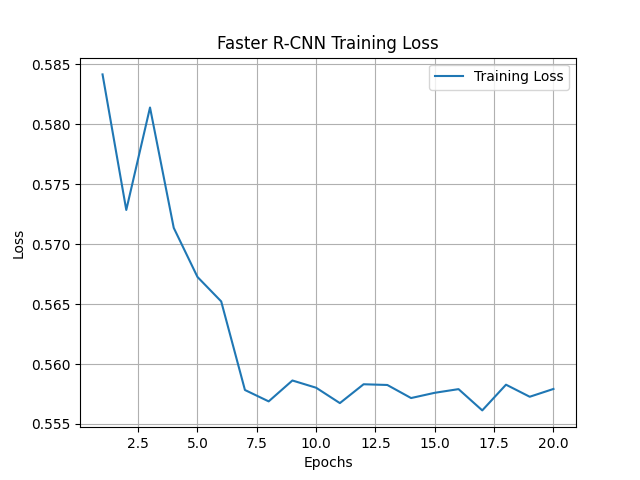
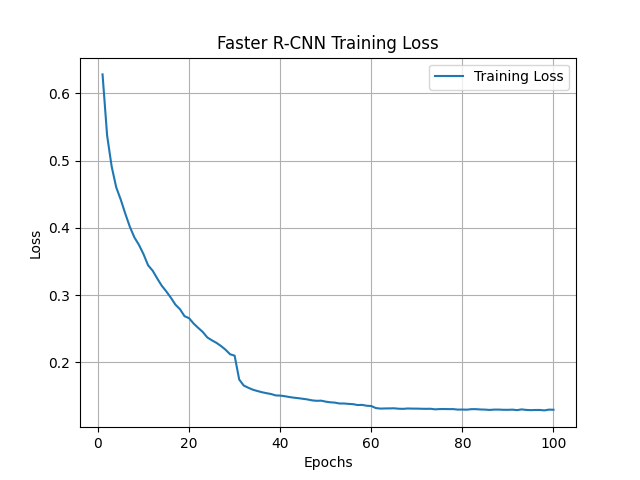
feat: Update R-CNN training hyperparameters and data augmentation, remove a duplicate script, and refresh the training loss plot.

diff --git a/CVDL/HW2/train_rcnn.py b/CVDL/HW2/train_rcnn.py
@@ -90,8 +90,8 @@ if __name__ == "__main__":
     # --- 參數設定 ---
     DATA_ROOT = "./data/1/VOCtrainval_06-Nov-2007/VOCdevkit/VOC2007"
     BATCH_SIZE = 4
-    NUM_EPOCHS = 200
-    LEARNING_RATE = 0.005
+    NUM_EPOCHS = 100
+    LEARNING_RATE = 1E-3
     
     device = torch.device('cuda') if torch.cuda.is_available() else torch.device('cpu')
     print(f"Using device: {device}")
@@ -99,6 +99,8 @@ if __name__ == "__main__":
     # --- 準備資料 ---
     data_transform = transforms.Compose([
         transforms.ToTensor(),
+        transforms.ColorJitter(brightness=0.2, contrast=0.2, saturation=0.2, hue=0.1),
+        transforms.RandomGrayscale(p=0.1),
     ])
     
     if os.path.exists(DATA_ROOT):
@@ -119,9 +121,10 @@ if __name__ == "__main__":
 
     # --- 設定 Optimizer 與 Scheduler ---
     params = [p for p in model.parameters() if p.requires_grad]
-    optimizer = optim.Adam(params, lr=LEARNING_RATE, weight_decay=0.0005)
+    optimizer = optim.SGD(params, lr=LEARNING_RATE, momentum=0.9, weight_decay=0.0005)
     
-    lr_scheduler = optim.lr_scheduler.StepLR(optimizer, step_size=3, gamma=0.1)
+    # StepLR step_size=30 (assuming 100 epochs, drop every 30)
+    lr_scheduler = optim.lr_scheduler.StepLR(optimizer, step_size=30, gamma=0.1)
 
     # --- 訓練迴圈 ---
     loss_history = []

diff --git a/CVDL/HW2/ben/main.py b/CVDL/HW2/ben/main.py
@@ -90,7 +90,6 @@ class MainWindow(QMainWindow):
         """1.1 Load Model And Show Model Structure [cite: 72, 73]"""
         model = get_faster_rcnn()
         print(model) # 輸出到 Terminal
-        # 你也可以選擇顯示一個簡單的訊息框告訴使用者「已輸出到 Terminal」
 
     def q1_2_show_loss(self):
         """1.2 Show Training Loss [cite: 82]"""

diff --git a/CVDL/HW2/model.py b/CVDL/HW2/model.py
@@ -28,5 +28,5 @@ def get_faster_rcnn():
     Q1.1: 載入 Faster R-CNN 模型
     設定 num_classes = 21 (20 類別 + 1 背景)
     """
-    model = models.detection.fasterrcnn_resnet50_fpn(weights=None, weights_backbone=None, num_classes=21)
+    model = models.detection.fasterrcnn_resnet50_fpn(num_classes=21)
     return model
